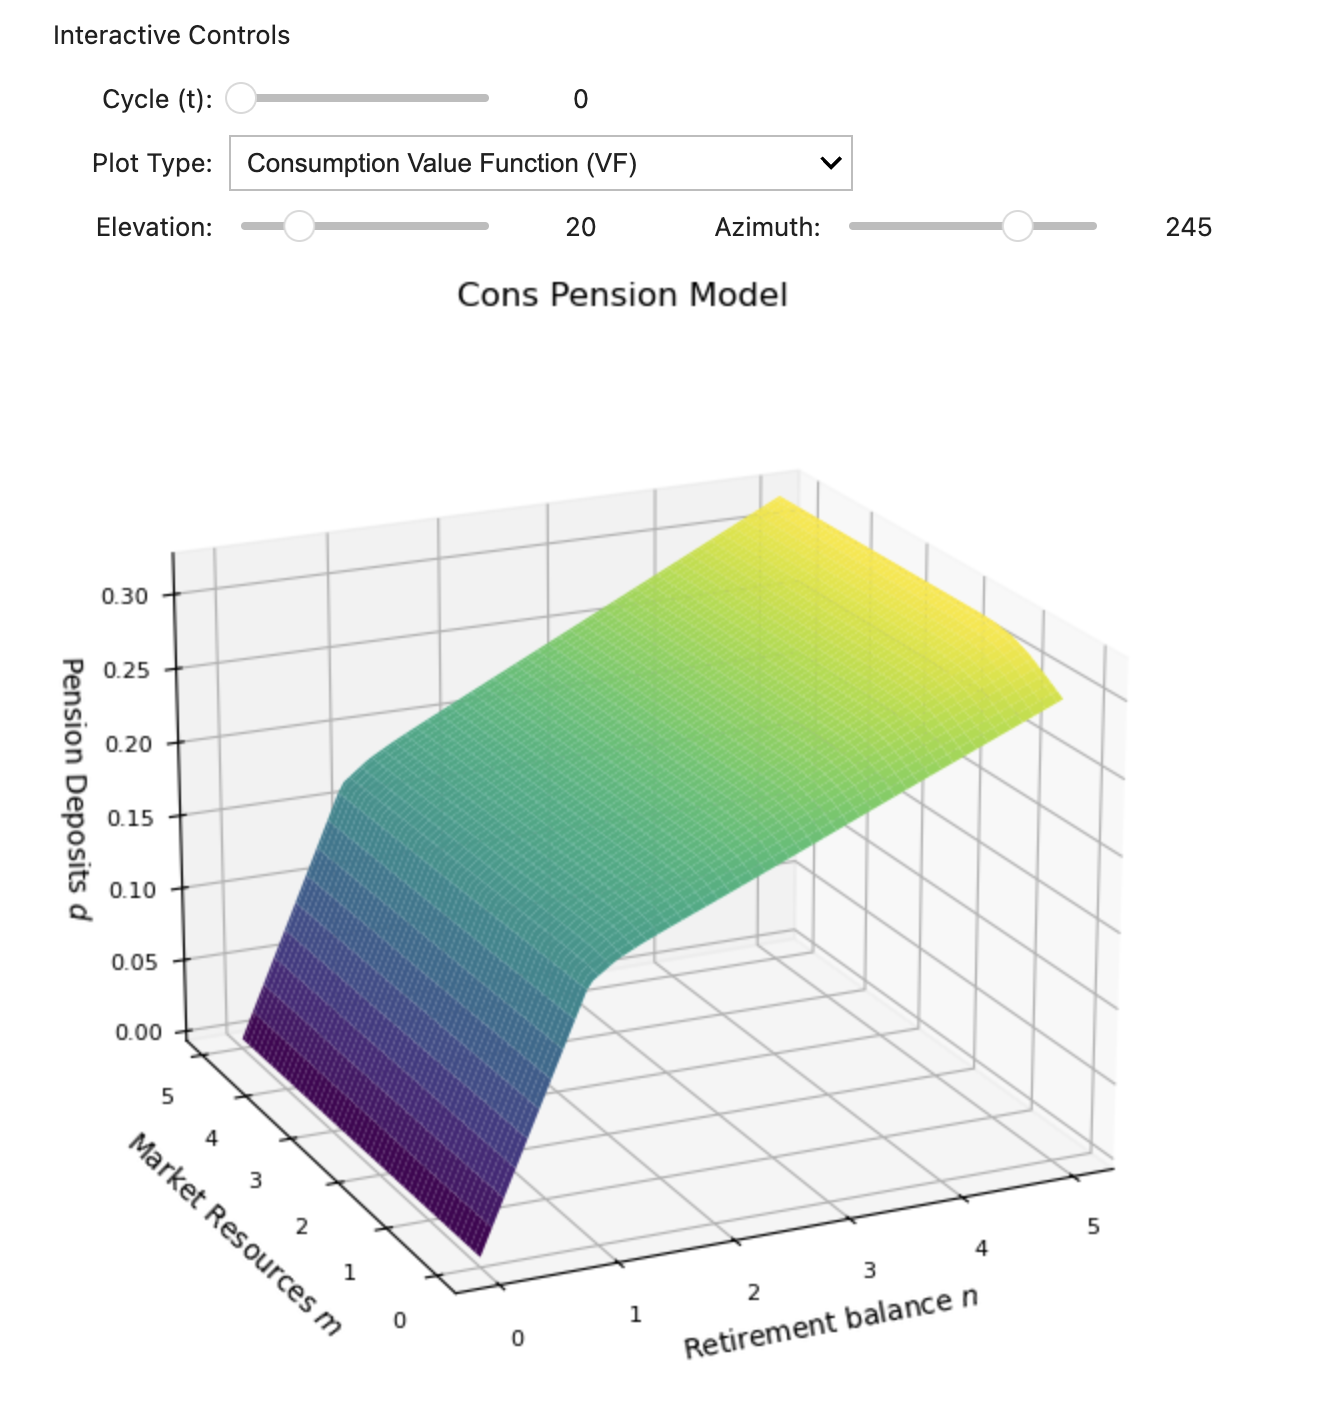
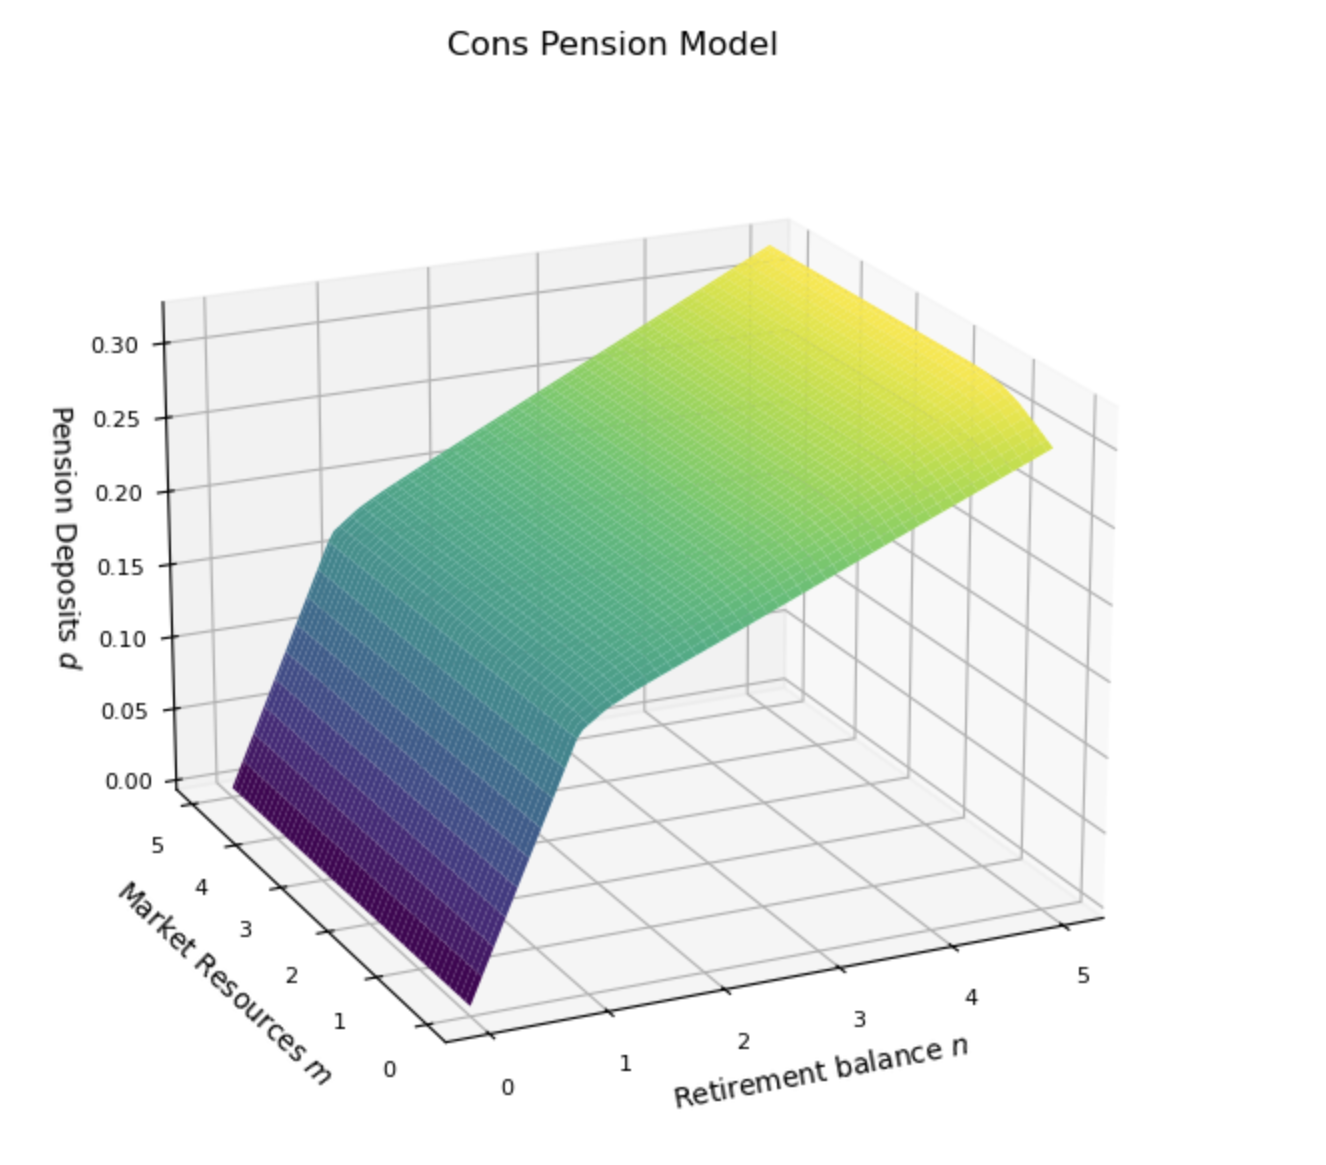
add interactive figure

diff --git a/content/paper/1_intro.md b/content/paper/1_intro.md
@@ -8,6 +8,18 @@ I would like to thank Chris Carroll, Matthew White, and Simon Scheidegger for th
 
 +++
 
++++
+
+```{hint} Explorable Figures - Compute backed Interactivity
+:class: dropdown
+This paper contains interactive elements and includes a number of computational notebooks. Press the power and play button below to make this plot interactive.
+See all the code, run the notebook that creates this and a number of other notebooks in the [Supporting Documents sections](example-conspensionmodel-baseline-interact).
+:::{figure} #conspension
+:placeholder: conspension.png
+An interactive figure exploring Policy and Value Functions for ConsPensionModel.
+:::
+```
+
 (introduction)=
 
 # Introduction
